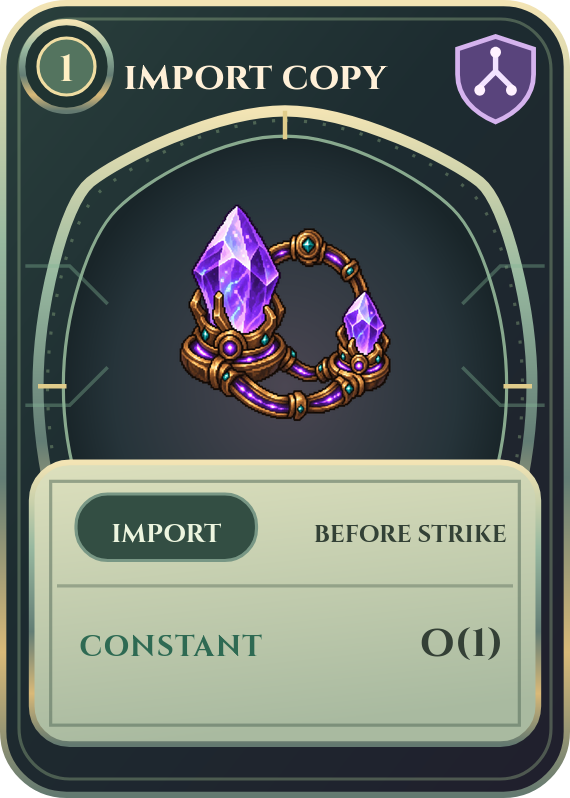
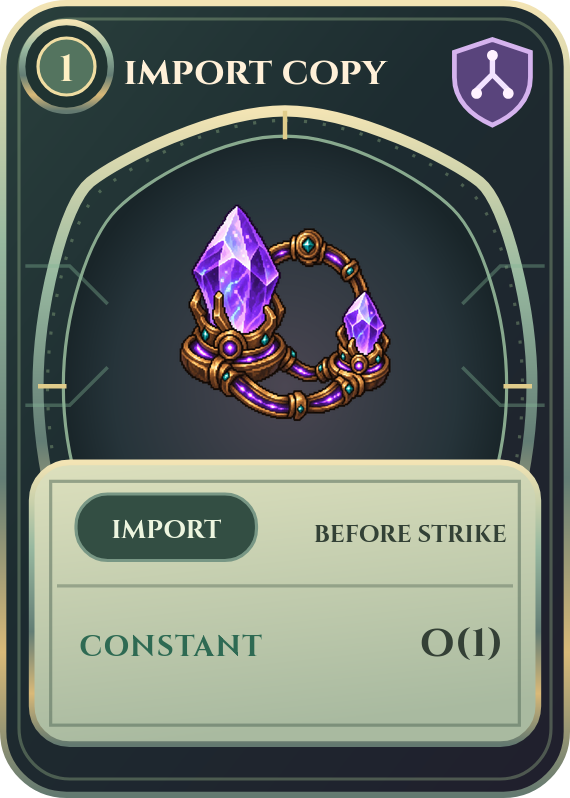
docs(cards): refine nicks and long-name layout

Changed region(s): [[0.2088, 0.0602, 0.686, 0.1203], [0.7754, 0.0301, 0.9544, 0.1805], [0.2088, 0.6316, 0.3877, 0.6917]]

diff --git a/Concept/v0.2/cards/README.md b/Concept/v0.2/cards/README.md
@@ -1,6 +1,6 @@
 # Hand-card concepts · v0.2
 
-The four pristine cards use one shared Rootglass layout: Cinzel lettering, the moved-in branching crest, the smooth halo, a centered rules plaque, and the same shard viewport. Halo ornament and palette are comparison axes; each card keeps the same hierarchy and sizing.
+The four pristine cards use one shared Rootglass layout: Cinzel lettering, the slightly lower-left branching crest, the smooth halo, a centered rules plaque, and the same shard viewport. Halo ornament and palette are comparison axes; each card keeps the same hierarchy and sizing.
 
 | Halo concept | Palette | SVG | Preview |
 |---|---|---|---|
@@ -13,9 +13,11 @@ The four pristine cards use one shared Rootglass layout: Cinzel lettering, the m
 
 Compare all four together in the [halo and palette study](palette-halo-study-preview.png) ([source SVG](palette-halo-study.svg)).
 
+The [long-name example](05-long-name-example-preview.png) ([SVG source](05-long-name-example.svg)) uses the catalog's longest real shard name, `from sortedcontainers import SortedList+`, and its existing B-tree art. Its title wraps to two short lines between the cost gem and paradigm crest while keeping the same Rootglass frame.
+
 ## Wear studies
 
-Each tier uses the same pristine Rootglass base. The nick series focuses on the card's outer edge, with a small halo nick added only at higher wear. The scorch series grows from the existing faint mark. The tier sheets compare low, medium, and very worn side by side:
+Each tier uses the same pristine Rootglass base. The nick series focuses on small triangular tears in the card's outer edge, with a matching geometric halo chip added only at higher wear. The scorch series grows from the existing faint mark. The tier sheets compare low, medium, and very worn side by side:
 
 | Treatment | Comparison sheet | Low | Medium | Very worn |
 |---|---|---|---|---|
